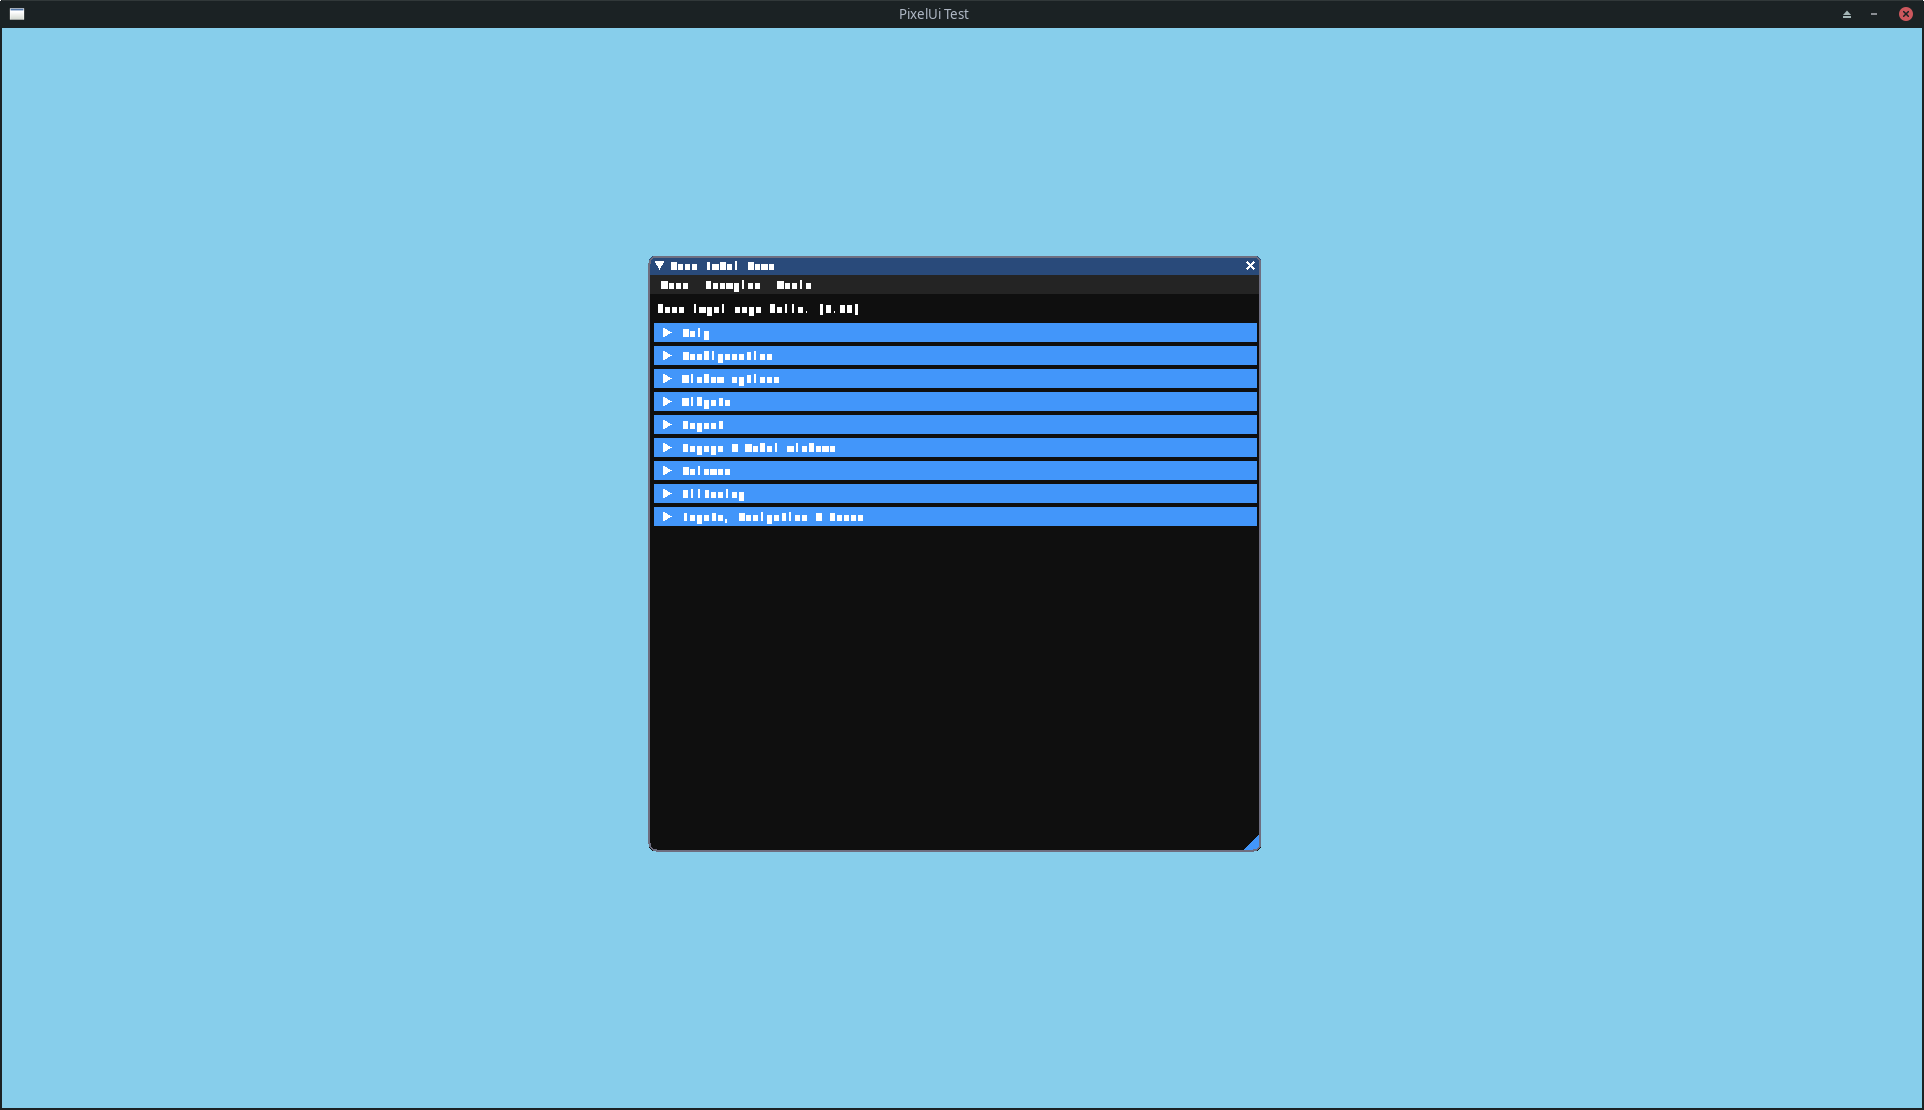
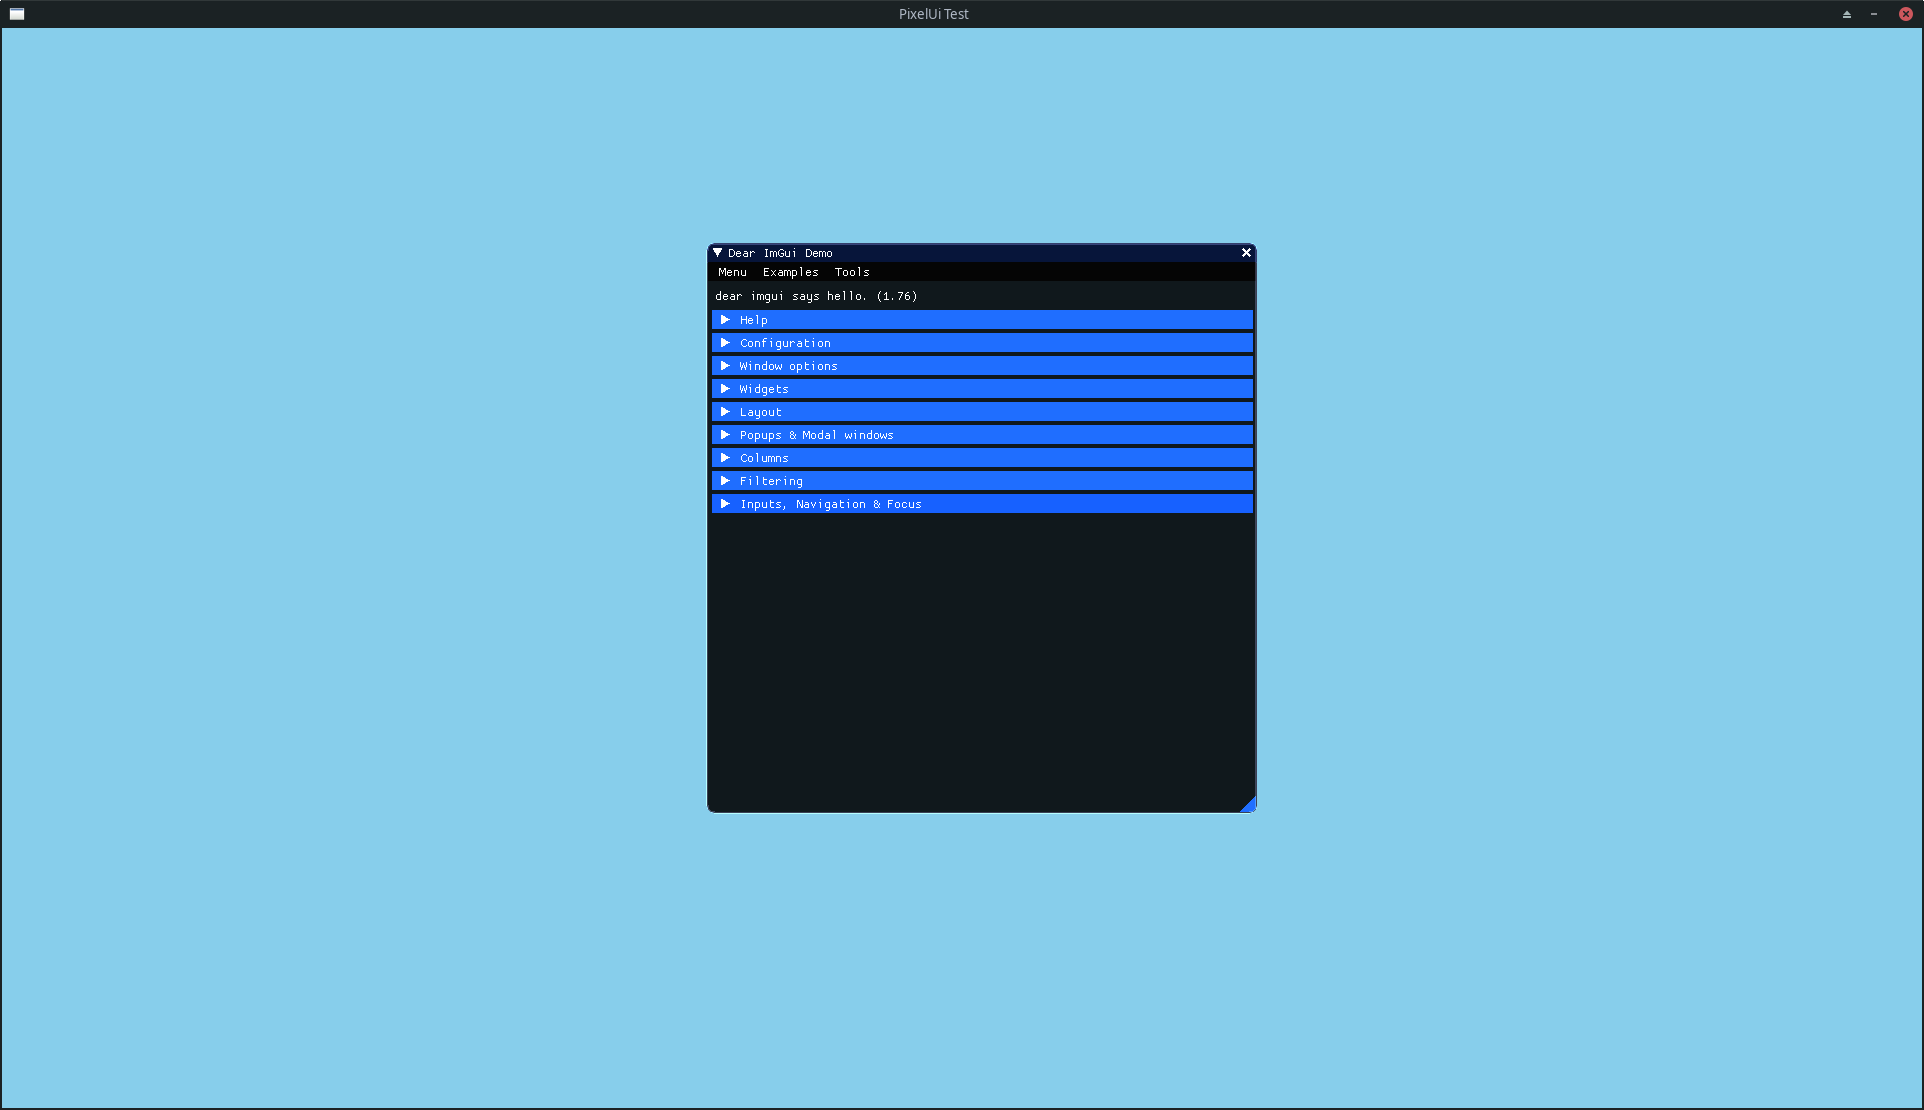
Updates for text rendering

Changed region(s): [[0.3119, 0.2144, 0.6549, 0.7658]]

diff --git a/test.go b/test.go
@@ -36,28 +36,20 @@ func run() {
 		log.Fatal(err)
 	}
 
+	// Currently, we NEED this shader in order for imgui to render properly.
 	win.Canvas().SetFragmentShader(`
 	#version 330 core
 	in vec4  vColor;
 	in vec2  vTexCoords;
 	in float vIntensity;
+
 	out vec4 fragColor;
+
 	uniform vec4 uColorMask;
 	uniform vec4 uTexBounds;
 	uniform sampler2D uTexture;
 	void main() {
-		vec2 t = (vTexCoords - uTexBounds.xy) / uTexBounds.zw;
-		if (vIntensity == 0) {
-			// fragColor = vColor;
-			fragColor = uColorMask * vColor;
-			fragColor = vec4(fragColor.rgb, 255-fragColor.a * texture(uTexture, t).r);
-		} else {
-			fragColor = vec4(0, 0, 0, 0);
-			fragColor += (1 - vIntensity) * vColor;
-			fragColor += vIntensity * vColor * texture(uTexture, t);
-			fragColor *= uColorMask;
-			// fragColor = vec4(fragColor.rgb, fragColor.a * texture(uTexture, t).r);
-		}
+		fragColor *= vColor * texture(uTexture, vTexCoords).a;
 	}
 	`)
 
@@ -65,7 +57,6 @@ func run() {
 	defer context.Destroy()
 	ui := pixelui.NewUI(context, win)
 
-	imgui.StyleColorsDark()
 	// imgui.StyleColorsLight()
 
 	open := true
